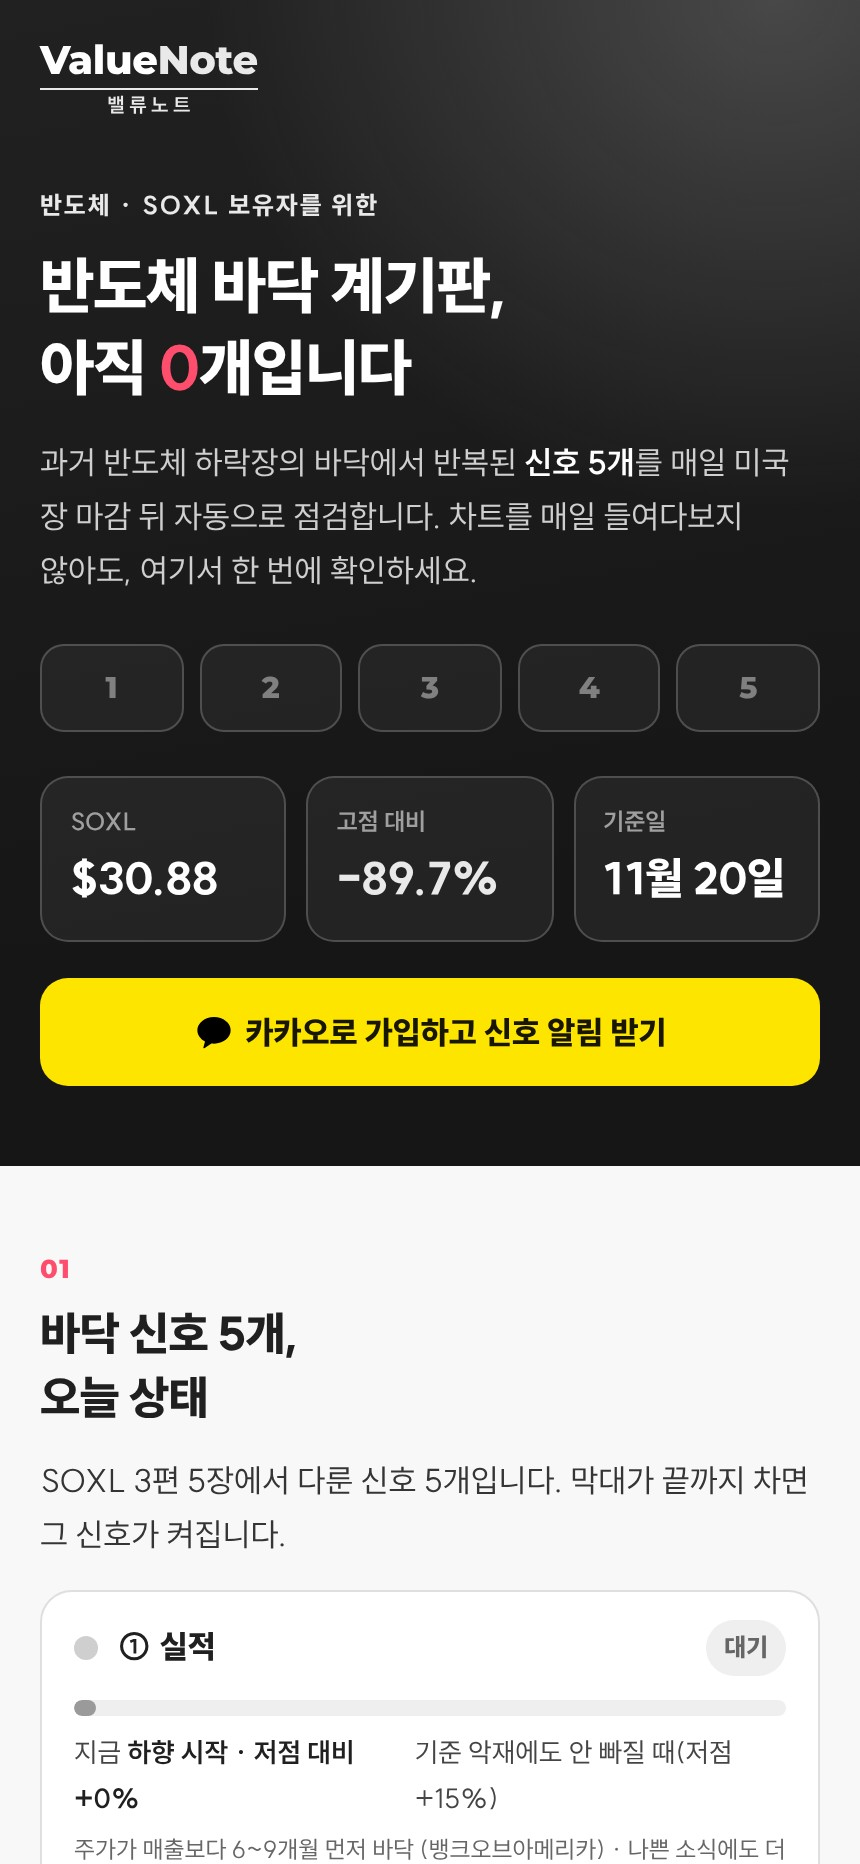
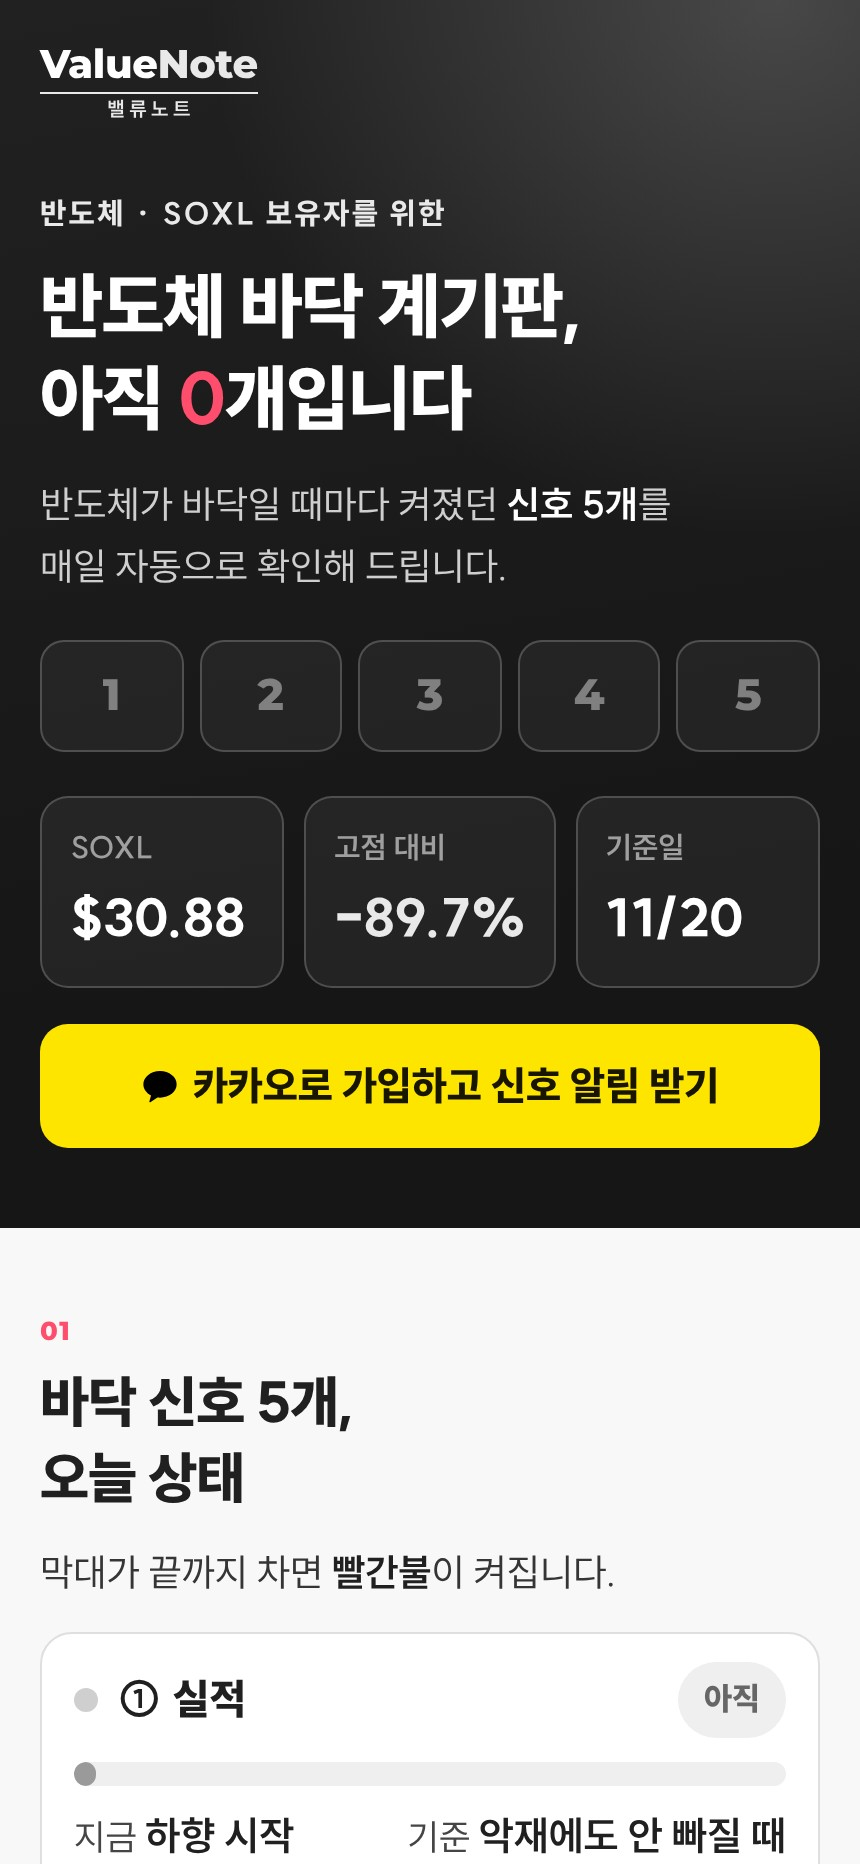
반도체 계기판 큰 글씨판: 글씨 키움, 신호 카드는 지금·기준만, 설명 줄임, 기능 카드 2개로
Claude-Session: https://claude.ai/code/session_01KaYReHBjpBU32vuLAbCbMK

diff --git a/semi.html b/semi.html
@@ -201,6 +201,33 @@ body{padding-bottom:76px}
 .chart{background:#fff;border:1px solid var(--line);border-radius:16px;padding:12px 12px 10px;margin-top:10px}
 .chart svg{width:100%;height:140px;display:block}
 .chart .cap{font-size:12px;color:var(--muted);margin-top:6px}
+/* 큰 글씨판 (대표 11/23: 나이 드신 분이 많이 봄 — 글씨 크게, 직관적으로) */
+body{font-size:18px}
+.hero h1{font-size:36px}.hero p{font-size:19px;line-height:1.6}
+.eyebrow{font-size:15px}
+.stat small{font-size:15px}.stat b{font-size:26px}
+.lamps span{height:56px;font-size:22px}
+h2{font-size:28px}
+section p{font-size:19px;line-height:1.65}
+.note{font-size:15px}
+.sg .nm{font-size:21px}
+.sg .st{font-size:16px;padding:5px 13px}
+.sg .bar{height:12px}
+.sg .vl{font-size:18px;flex-wrap:wrap}
+.sg .vl b{font-size:20px}
+.ft i{font-size:30px}.ft b{font-size:19px}.ft span{font-size:16px}
+.alt{font-size:16px}
+.cmp small{font-size:16px}.cmp b{font-size:32px}.cmp span{font-size:16px}
+.tbl .hd{font-size:15px}
+.tbl.et .rw b{font-size:20px}.tbl.et .rw small{font-size:14px}.tbl.et .rw span{font-size:19px}
+.chart .cap{font-size:14px}
+.calc label span{font-size:18px}.calc input{height:52px;font-size:20px;width:130px}.calc em{font-size:16px}
+.out span{font-size:16px}.out b{font-size:20px}.out b.gd{font-size:24px}
+.yt b{font-size:18px}.yt small{font-size:15px}
+.btn{height:62px;font-size:20px}
+.sticky .t{font-size:15px}.sticky .t b{font-size:17px}.sticky .btn{height:54px;font-size:18px}
+.end h2{font-size:28px}.end p{font-size:19px}.end small{font-size:14px}
+@media (max-width:380px){.hero h1{font-size:31px}h2{font-size:25px}.lamps span{height:50px}.ft{grid-template-columns:1fr 1fr}}
 </style>
 </head>
 <body>
@@ -209,7 +236,7 @@ body{padding-bottom:76px}
     <a class="wm" href="/start?utm_source=semi"><span class="e">Value<i>Note</i></span><small>밸류노트</small></a>
     <div class="eyebrow">반도체 · SOXL 보유자를 위한</div>
     <h1 id="h-t">반도체 바닥 계기판,<br>지금 <em id="h-on">–</em>개 켜졌습니다</h1>
-    <p>과거 반도체 하락장의 바닥에서 반복된 <b>신호 5개</b>를 매일 미국 장 마감 뒤 자동으로 점검합니다. 차트를 매일 들여다보지 않아도, 여기서 한 번에 확인하세요.</p>
+    <p>반도체가 바닥일 때마다 켜졌던 <b>신호 5개</b>를<br>매일 자동으로 확인해 드립니다.</p>
     <div class="lamps" id="lamps"></div>
     <div class="stat">
       <div><small>SOXL</small><b id="h-soxl">–</b></div>
@@ -224,7 +251,7 @@ body{padding-bottom:76px}
 <section>
   <div class="no">01</div>
   <h2>바닥 신호 5개,<br>오늘 상태</h2>
-  <p>SOXL 3편 5장에서 다룬 신호 5개입니다. 막대가 끝까지 차면 그 신호가 켜집니다.</p>
+  <p>막대가 끝까지 차면 <b>빨간불</b>이 켜집니다.</p>
   <div class="sig" id="sig"></div>
   <div class="note" id="sig-note"></div>
 </section>
@@ -232,12 +259,10 @@ body{padding-bottom:76px}
 <section>
   <div class="no">02</div>
   <h2>신호가 바뀔 때마다<br>바로 알려 드립니다</h2>
-  <p>계기판은 매일 바뀝니다. 가입해 두시면 언제든 들어와 확인하실 수 있고, <b>5개 신호 중 하나라도 켜지거나 꺼지는 날</b> 카카오톡과 휴대폰 알림으로 바로 알려 드립니다.</p>
+  <p>신호가 하나라도 바뀌는 날,<br><b>카카오톡으로 바로 알려 드립니다.</b></p>
   <div class="ft">
-    <div><i>🔔</i><b>신호 알림</b><span>신호가 켜지거나 꺼지는 날 카카오톡·휴대폰 알림을 보내 드립니다.</span></div>
-    <div><i>📟</i><b>계기판 상시 확인</b><span>매일 미국 장 마감 뒤 자동으로 바뀌는 계기판을 언제든 봅니다.</span></div>
-    <div><i>📊</i><b>반도체 종목 점수</b><span>엔비디아·브로드컴·AMD가 지금 비싼지 싼지 적정 주가로 봅니다.</span></div>
-    <div><i>🧮</i><b>내 종목 점검</b><span>갖고 있는 종목을 넣으면 들고 갈 종목과 줄일 종목을 나눠 드립니다.</span></div>
+    <div><i>🔔</i><b>신호 알림</b><span>신호가 바뀌는 날 카톡으로 알려 드려요.</span></div>
+    <div><i>📟</i><b>계기판 상시 확인</b><span>매일 아침 새로 바뀐 계기판을 언제든 봅니다.</span></div>
   </div>
   <a class="btn kakao big" href="/?kakao=1&amp;from=semi&amp;alert=semi&amp;utm_source=semi-ft" data-ev="cta-ft" data-out><svg viewBox="0 0 24 24" width="20" height="20" aria-hidden="true"><path fill="#000" d="M12 3C6.48 3 2 6.58 2 11c0 2.83 1.84 5.31 4.6 6.73l-.98 3.62c-.09.33.29.59.57.39l4.3-2.86c.5.06 1 .1 1.51.1 5.52 0 10-3.58 10-8S17.52 3 12 3z"/></svg>카카오로 1초 가입하기</a>
   <div class="alt"><a href="/?signup&amp;from=semi&amp;alert=semi&amp;utm_source=semi-email" data-ev="cta-email" data-out>이메일로 가입</a> · 가입 후 언제든 탈퇴할 수 있습니다</div>
@@ -245,9 +270,8 @@ body{padding-bottom:76px}
 
 <section>
   <div class="no">03</div>
-  <h2>지금 하락장은<br>과거 평균과 비교하면</h2>
+  <h2>지금 하락장,<br>과거와 비교하면</h2>
   <div class="cmp" id="cmp"></div>
-  <div class="note">과거 평균: 반도체 하락장 평균 기간 253일·평균 하락률 -32% (SOXL 3편 정리 기준)</div>
 </section>
 
 <section>
@@ -260,7 +284,7 @@ body{padding-bottom:76px}
 <section>
   <div class="no">05</div>
   <h2>물타면 본전은 어디일까요?<br>직접 계산해 보세요</h2>
-  <p>지금 평단과 보유 금액, 추가로 넣을 금액을 넣으면 새 평단과 본전까지 필요한 상승률이 바로 나옵니다.</p>
+  <p>숫자만 바꾸면 새 평단이 바로 나옵니다.</p>
   <div class="calc">
     <label><span>지금 평단</span><input id="c-avg" type="number" inputmode="decimal" value="150"><em>달러</em></label>
     <label><span>보유 금액</span><input id="c-hold" type="number" inputmode="decimal" value="1000"><em>만 원</em></label>
@@ -287,7 +311,7 @@ body{padding-bottom:76px}
 <footer class="end">
   <div class="wrap">
     <h2>계기판은 매일 바뀝니다.<br>신호가 바뀌는 날 알려 드릴게요</h2>
-    <p>가입해 두시면 계기판을 언제든 확인하고, 신호가 바뀌는 날 바로 알림을 받습니다.</p>
+    <p>가입만 해 두시면 신호가 바뀌는 날 카톡으로 알려 드립니다.</p>
     <a class="btn kakao big" href="/?kakao=1&amp;from=semi&amp;alert=semi&amp;utm_source=semi-end" data-ev="cta-end" data-out><svg viewBox="0 0 24 24" width="20" height="20" aria-hidden="true"><path fill="#000" d="M12 3C6.48 3 2 6.58 2 11c0 2.83 1.84 5.31 4.6 6.73l-.98 3.62c-.09.33.29.59.57.39l4.3-2.86c.5.06 1 .1 1.51.1 5.52 0 10-3.58 10-8S17.52 3 12 3z"/></svg>카카오로 가입하고 신호 알림 받기</a>
     <small>계기판은 과거 하락장에서 반복된 신호를 정리한 참고 자료이며, 바닥 시점을 맞히거나 매수·매도를 권하는 것이 아닙니다. 신호가 모두 켜져도 더 내려갈 수 있습니다.</small>
   </div>
@@ -329,18 +353,20 @@ document.addEventListener('click', function(e){ var a = e.target.closest && e.ta
 
 /* ---------- 계기판 ---------- */
 var md = function(d){ var p = String(d || '').split('-'); return p.length === 3 ? (+p[1]) + '월 ' + (+p[2]) + '일' : d; };
+/* 어르신도 한눈에: 괄호 속 세부·'·' 뒤 설명은 뺀다 (대표 11/23) */
+var simp = function(t){ return String(t || '').replace(/\s*\(.*?\)\s*/g, ' ').split(' · ')[0].trim(); };
 var sg = function(x){ return (x > 0 ? '+' : '') + x.toFixed(1) + '%'; };
 function render(g){
   if(g.on === 0) $('#h-t').innerHTML = '반도체 바닥 계기판,<br>아직 <em>0</em>개입니다'; else $('#h-on').textContent = g.on;
   $('#lamps').innerHTML = g.signals.map(function(s, i){ return '<span class="' + (s.on ? 'on' : '') + '">' + (i + 1) + '</span>'; }).join('');
   var sx = (g.etfs || []).filter(function(e){ return e.name === 'SOXL'; })[0];
   if(sx){ $('#h-soxl').textContent = '$' + sx.last.toFixed(2); $('#h-dd').textContent = sg(sx.dd); }
-  $('#h-asof').textContent = md(g.asof);
+  $('#h-asof').textContent = String(g.asof || '').slice(5).replace('-', '/').replace(/^0/, '').replace('/0', '/');
   $('#sig').innerHTML = g.signals.map(function(s){
-    return '<div class="sg' + (s.on ? ' on' : '') + '"><div class="tp"><i class="dot"></i><span class="nm">' + esc(s.name) + '</span><span class="st">' + (s.on ? '켜짐' : '대기') + '</span></div>' +
+    return '<div class="sg' + (s.on ? ' on' : '') + '"><div class="tp"><i class="dot"></i><span class="nm">' + esc(s.name) + '</span><span class="st">' + (s.on ? '켜짐' : '아직') + '</span></div>' +
       '<div class="bar"><i style="width:' + Math.max(3, Math.round(s.pct)) + '%"></i></div>' +
-      '<div class="vl"><span>지금 <b>' + esc(s.now) + '</b></span><span>기준 ' + esc(s.target) + '</span></div><small>' + esc(s.note) + '</small></div>'; }).join('');
-  $('#sig-note').textContent = '미국 ' + md(g.asof) + ' 마감 기준 · 매일 미국 장 마감 뒤 자동 갱신';
+      '<div class="vl"><span>지금 <b>' + esc(simp(s.now)) + '</b></span><span>기준 <b>' + esc(simp(s.target)) + '</b></span></div></div>'; }).join('');
+  $('#sig-note').textContent = md(g.asof) + ' 미국 장 마감 기준 · 매일 아침 자동으로 바뀝니다';
   var s = g.sox;
   $('#cmp').innerHTML = '<div><small>고점 대비 하락</small><b>' + sg(s.dd) + '</b><span>과거 평균 -32%</span></div>' +
     '<div><small>하락 기간</small><b>' + ((g.raw && g.raw.calDays) || s.days) + '일</b><span>과거 평균 253일</span></div>';
